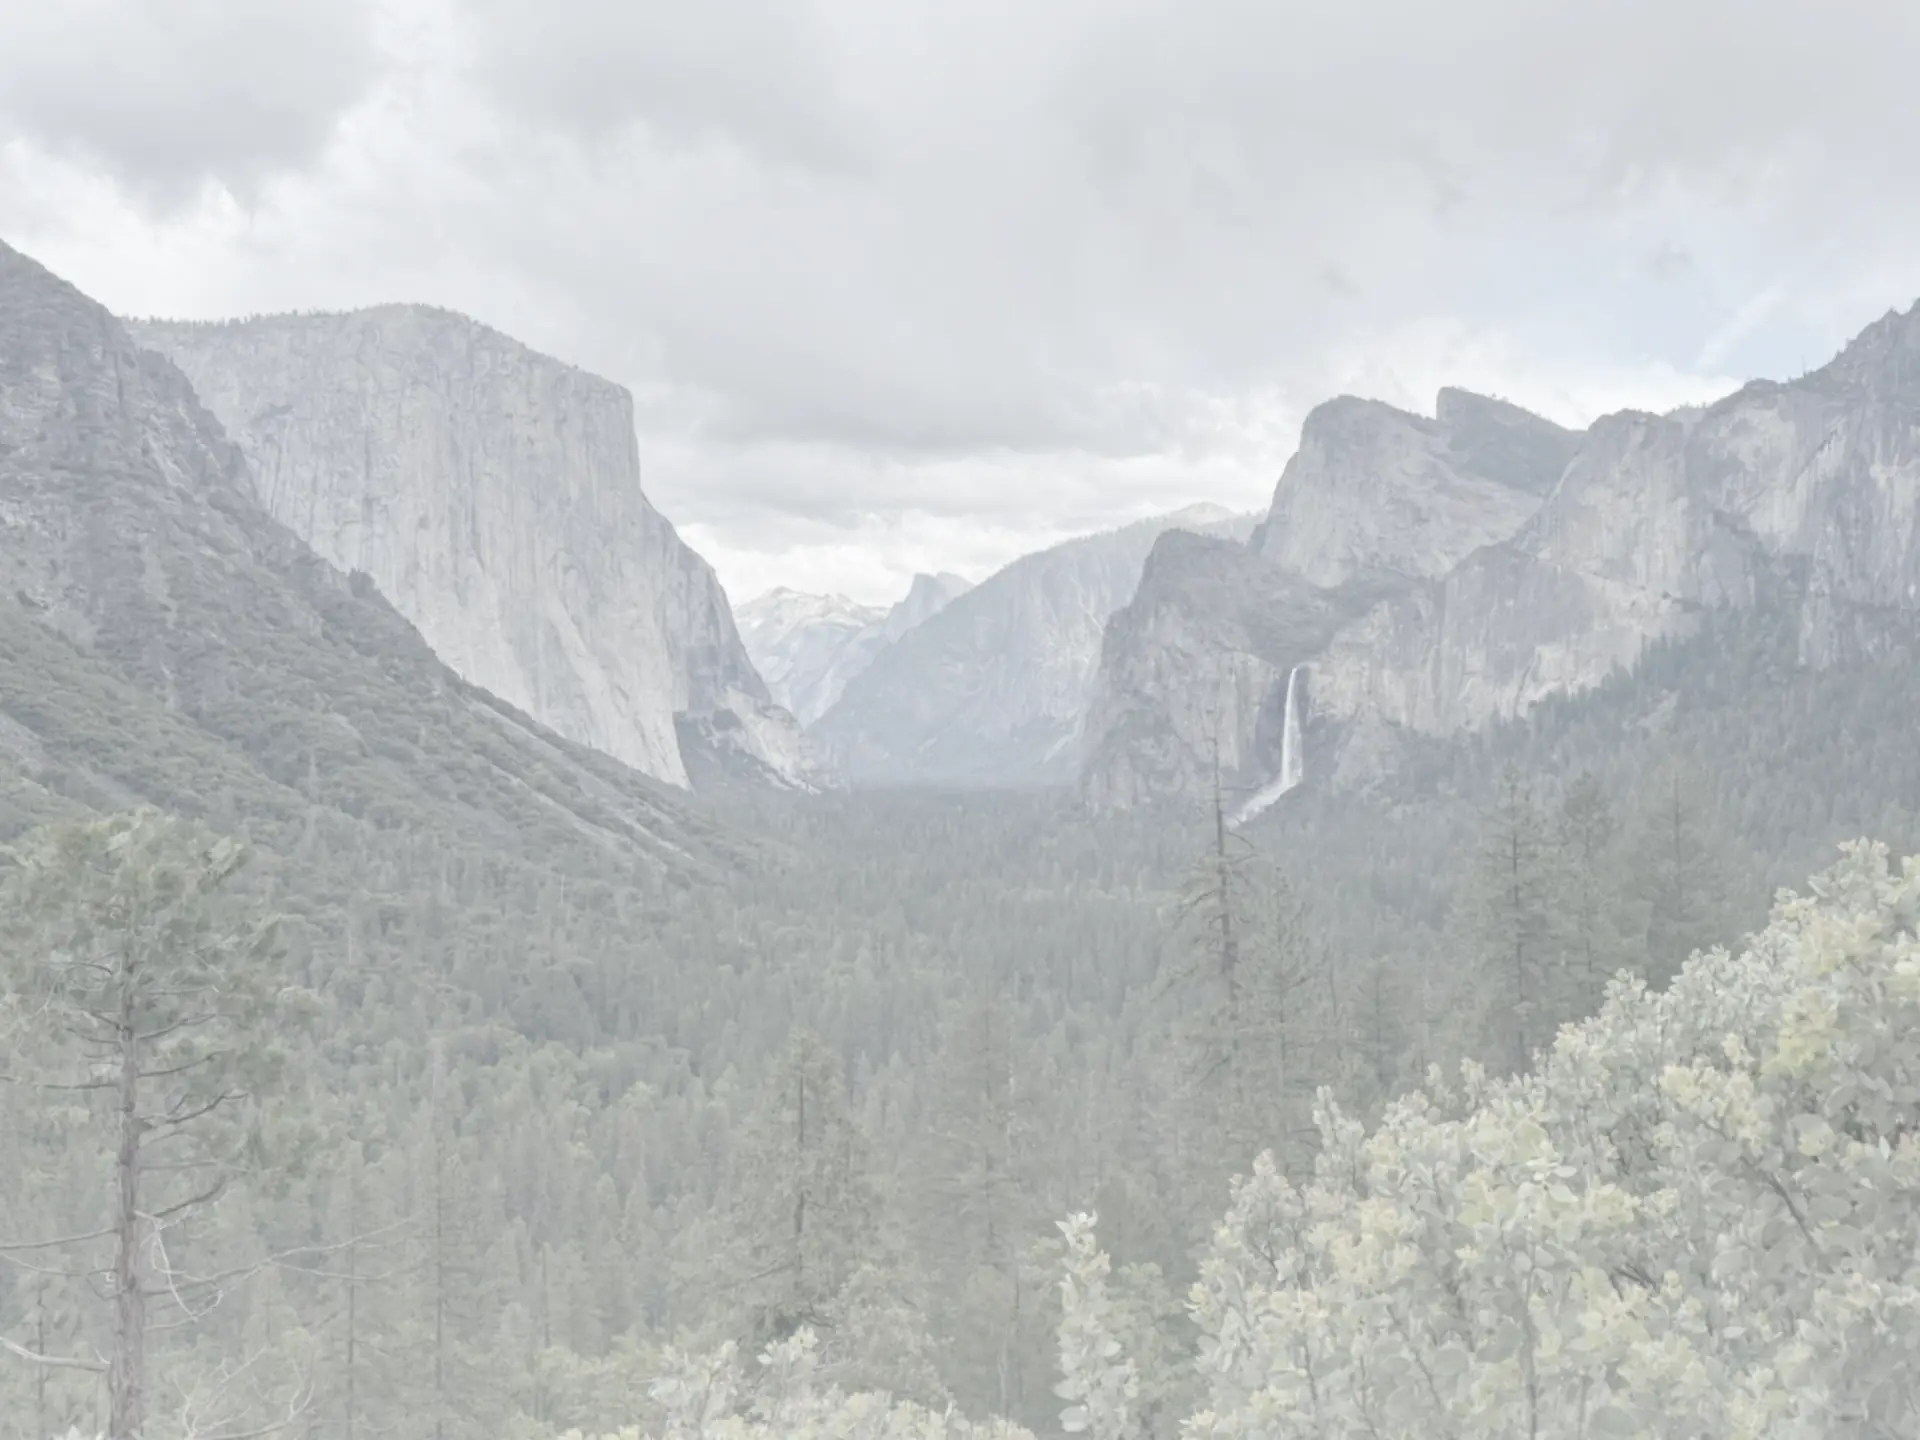
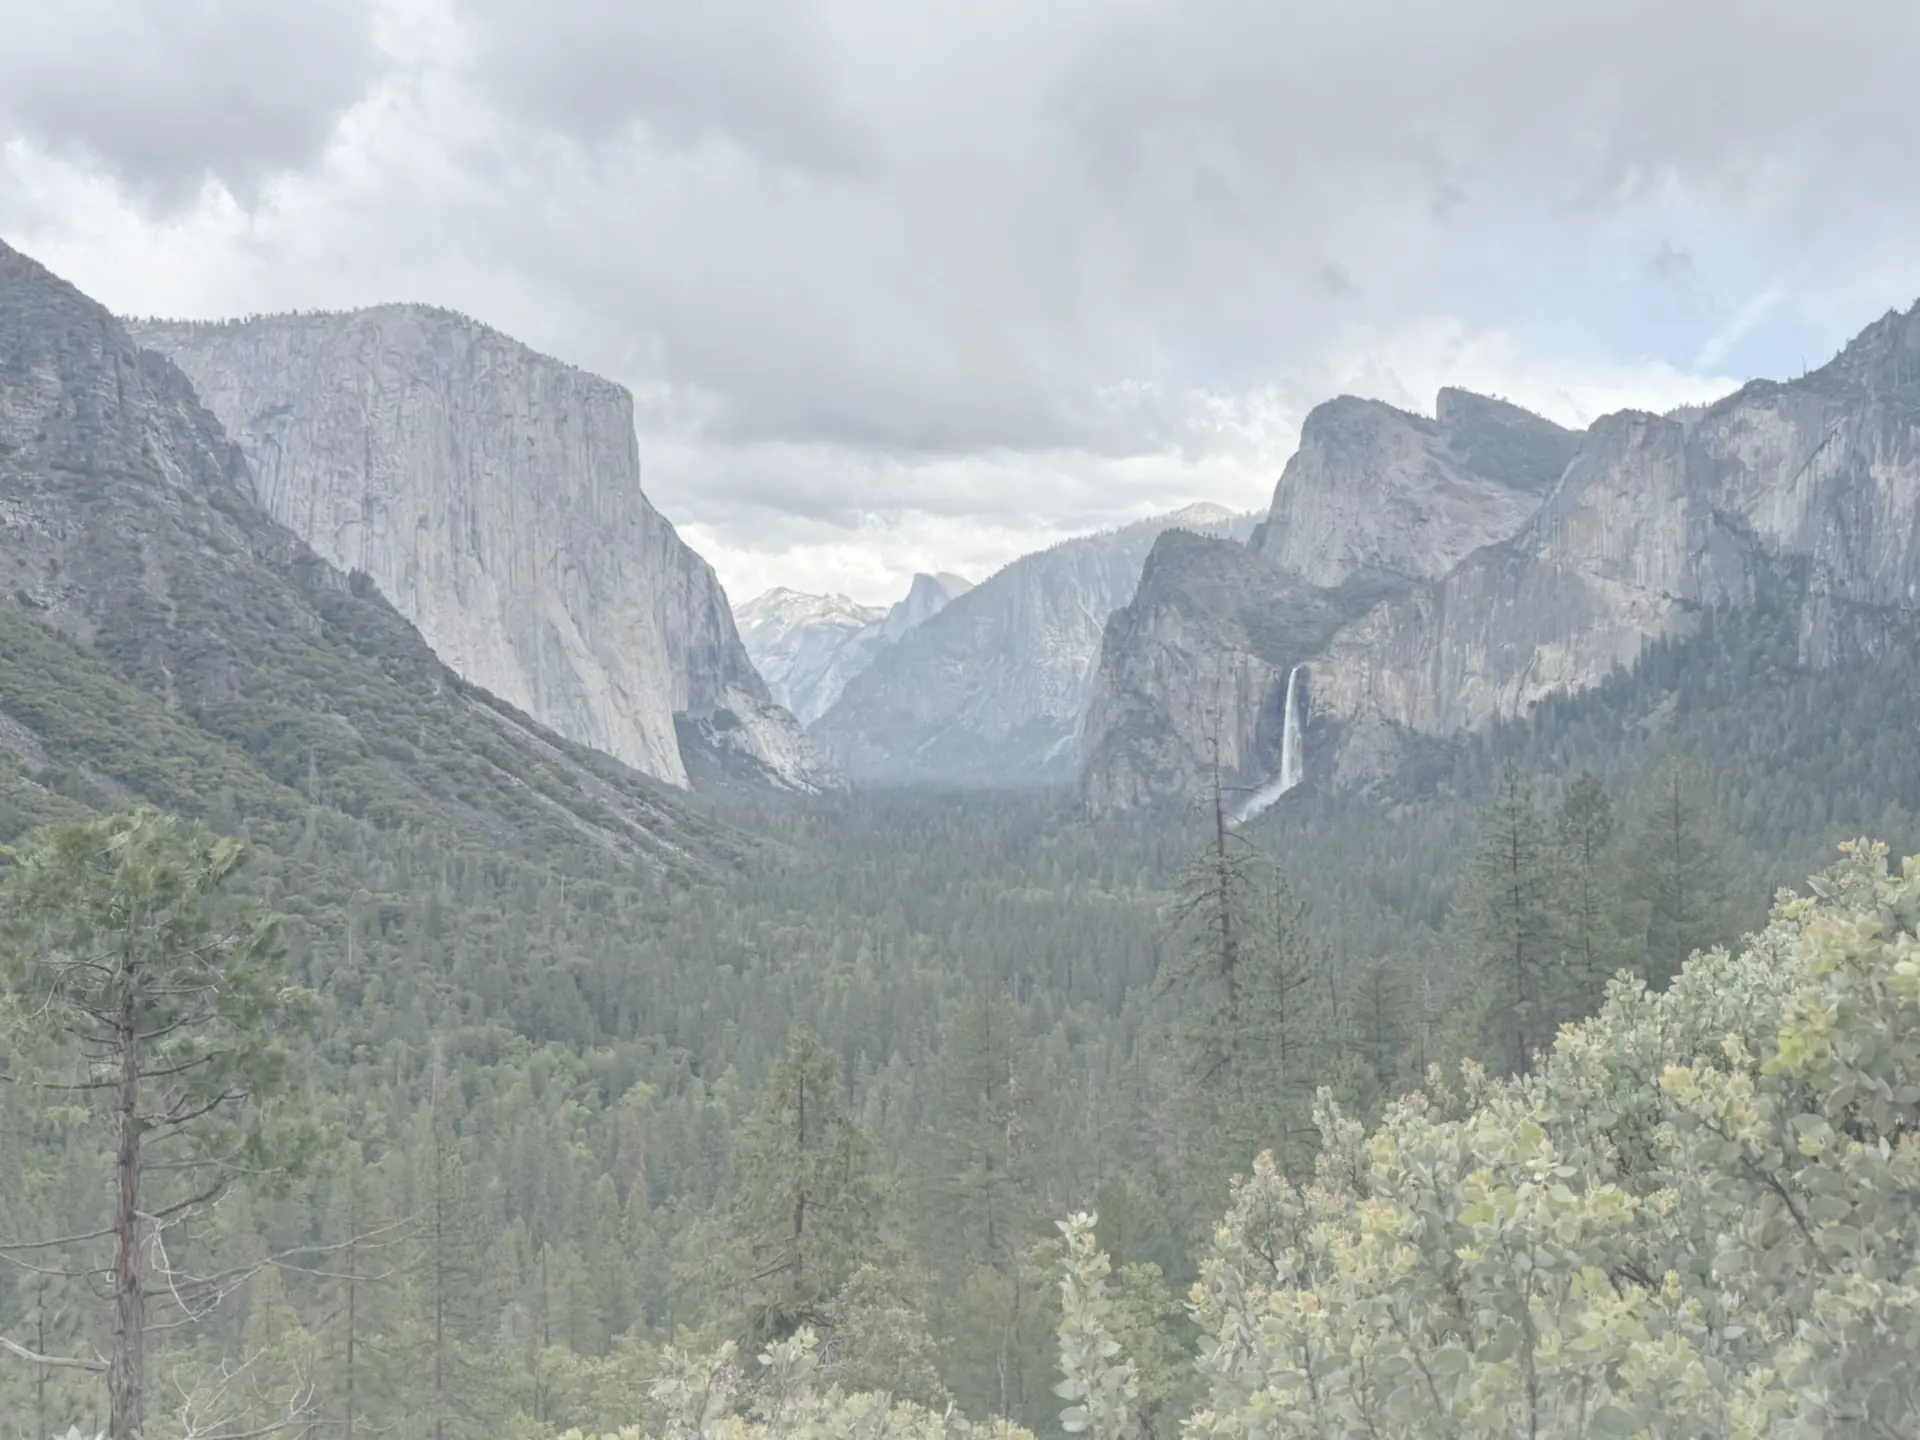
Take the homepage glass down to 25% and keep the text on a paper halo
After seeing site#2 live, the owner asked again for the photo to show
through more. The tiles now carry 25% paper instead of 50%, and the photo
file keeps its full colour (only the dark forest is still lifted so no text
ever sits on it), so the valley reads through the whole sheet instead of
hinting at itself.

What keeps the text readable with so little paper: a paper-coloured text
halo (3px and 1px, paper at 90%) on everything inside the paper tiles and
the contact strip, which puts every glyph on light ground whatever is
behind the tile; and darker homepage text (body #3a3f49, muted #4b5260; the
paper pages are unchanged). The measurement moved with it: the new
tools/contrast-floor.mjs samples the darkest 5% of what sits under the
glyph pixels themselves, halo included, instead of the whole text box, at
1440x900 and 1280x720. As merged: headings 12:1, body 6.9:1, small grey
5.1:1 (4.9 at 1280x720), accent links 5.2:1, all above the 4.5 standard
(site#2 had 4.0 for the small grey without a halo).

Checked at 1280x720, 1366x768, 1440x900, 1920x1080 and 2560x1440 (one
screen, no console errors), every zoom step (no horizontal scroll) and
390px (no horizontal scroll). CLAUDE.md records the new recipe, the tool
and the site#3 ledger entry; the site#2 recipe stays in git at 00fe32a.

Claude-Session: https://claude.ai/code/session_01BtnzSXW1FK9fTyGXYcY59K

diff --git a/index.html b/index.html
@@ -15,11 +15,11 @@
     --cream: #dfe1e6;
     --accent: #31548e;
     --accent-light: #6d8cbf;
-    --muted: #565d6a;        /* one notch darker than the paper pages: small text sits on frosted tiles here */
+    --muted: #4b5260;        /* darker than the paper pages' #737a86: small text sits on glass here */
     --rule: #c6cad2;
     --card-bg: #fafbfc;
     --shadow: 0 6px 40px rgba(22,24,30,.10);
-    --body: #454a54;
+    --body: #3a3f49;         /* the paper pages keep #454a54 */
     --ink-hover: #1f2430;
     --inv-muted: #8b93a2;
     --inv-body: #aeb5c2;
@@ -60,15 +60,18 @@
   .band-main > .about { flex-grow: 1.25; }
   .band-papers > * { flex: 1 1 26rem; min-width: 0; }
 
-  /* Frosted tiles: half-opaque paper over the blurred photo; the 1px shadow draws the hairline grid
-   that the sheet's rule-coloured ground used to provide. */
+  /* Glass tiles: a quarter of paper over the blurred photo, and a paper-coloured halo under every
+   glyph so the text always sits on light ground; the 1px shadow draws the hairline grid that the
+   sheet's rule-coloured ground used to provide. */
   .tile {
-    background: rgba(243,244,246,.5);
-    -webkit-backdrop-filter: blur(16px) saturate(.85); backdrop-filter: blur(16px) saturate(.85);
+    background: rgba(243,244,246,.25);
+    -webkit-backdrop-filter: blur(16px) saturate(.9); backdrop-filter: blur(16px) saturate(.9);
     box-shadow: 0 0 0 1px var(--rule);
     padding: 1rem 1.2rem; position: relative; transition: background .25s;
   }
-  .tile:hover { background: rgba(250,251,252,.62); }
+  .tile:hover { background: rgba(250,251,252,.4); }
+  .tile:not(.quidence), .foot { text-shadow: 0 0 3px rgba(243,244,246,.9), 0 0 1px rgba(243,244,246,.9); }
+  .glyph { text-shadow: none; }
   @supports not ((backdrop-filter: blur(1px)) or (-webkit-backdrop-filter: blur(1px))) {
     .tile { background: rgba(243,244,246,.9); }
   }

diff --git a/CLAUDE.md b/CLAUDE.md
@@ -209,22 +209,25 @@ wording.
   laptop-height screens (861px+ wide, 940px or less tall) hide the About tile's closing
   aside (`.about p.dim`) so the homepage still fits one screen from 1280×800 to
   2560×1440; the 820px compact mode is otherwise unchanged.
-  Photo ground on the homepage only (since site#2, 2026-10-09; owner's choice after three
-  mockups: masthead band, light wash, frosted tiles): `assets/yosemite-light.webp` (the
-  owner's own Yosemite Tunnel View photo, IMG_6641, 1920×1440, about 85 KB) sits in a fixed
-  `body::before` layer (not `background-attachment: fixed`, which iOS Safari ignores). The
-  tiles are frosted glass: paper at 50% over `backdrop-filter: blur(16px)`, hairlines drawn
-  by a 1px box-shadow because the sheet ground is now transparent; the contact strip is at
-  86%; the Quidence tile stays opaque. The image file carries the readability work:
-  desaturated to 70%, shadows lifted (gamma 0.55), blended 25% toward paper, plus an extra
-  blend toward paper rising to 40% over the lower 55% of the frame so the dark forest never
-  sits behind text, then a 1px blur. Homepage `--muted` is #565d6a (the paper pages keep
-  #737a86) so the smallest grey text keeps a 4.0:1 floor against the darkest spot behind
-  it, the value the old grey had on plain paper; body text stays above 5.4, headings above
-  10. Fallbacks: tiles go to 90% without backdrop-filter support and to 94% under
-  `prefers-reduced-transparency`. Rule for any change here: measure the darkest 5% of the
-  backdrop under each text block (headless Chromium + PIL) and keep that floor; with this
-  photo 50% is the lowest tile opacity that passes.
+  Photo ground on the homepage only (site#2, 2026-10-09, at 50% tiles; site#3 the same day
+  took it to 25% after the owner asked twice for more of the photo): `assets/yosemite-light.webp`
+  (the owner's own Yosemite Tunnel View photo, IMG_6641, 1920×1440, about 135 KB) sits in a
+  fixed `body::before` layer (not `background-attachment: fixed`, which iOS Safari ignores).
+  The tiles are glass: paper at 25% over `backdrop-filter: blur(16px)`, hairlines drawn by a
+  1px box-shadow because the sheet ground is transparent; the contact strip is at 86%; the
+  Quidence tile stays opaque. Three things keep the text readable on so little paper: a
+  paper-coloured text halo on everything inside the paper tiles and the contact strip
+  (`text-shadow` 3px + 1px, paper at 90%; the watermark glyphs are excluded), darker homepage
+  text (`--body` #3a3f49, `--muted` #4b5260; the paper pages keep #454a54 / #737a86), and the
+  image file itself: full colour, shadows lifted (gamma 0.65), blended 6% toward paper, plus an
+  extra blend toward paper rising to 36% over the lower 55% of the frame so the dark forest
+  never sits behind text, then a 0.8px blur. Fallbacks: tiles go to 90% without
+  backdrop-filter support and to 94% under `prefers-reduced-transparency`. Rule for any change
+  here: run `node tools/contrast-floor.mjs` (headless Chromium; it samples the darkest 5% of
+  what sits under the glyph pixels of every text block, halo included) and keep every text
+  colour at 4.5:1 or better; as merged, headings 12, body 6.9, small grey 5.1 (4.9 at
+  1280×720). The site#2
+  recipe (50% tiles, no halo, gamma 0.55 / 25% wash) is in git at 00fe32a.
   `platform.html` is a short Quidence page in the portfolio chassis (kept so old links
   land somewhere); `local-llm.html` keeps the original warm-paper terracotta system.
   Fonts are shared across all systems; the section-numbering pattern continues.
@@ -266,7 +269,7 @@ The canonical reference is `<line>#<n>`, counted separately per project line:
 - `site#n` — the portfolio line from 2026-10-08 on (`index.html`, `acb.html`, `mdc.html`,
   `review.html` + `review/`, `platform.html`, `README.md`, `CLAUDE.md`); starts at `site#1`.
   Assigned: `site#1` = PR #21 (CNAME for stephenjia.com, 2026-10-09); `site#2` = homepage
-  photo ground (2026-10-09)
+  photo ground (2026-10-09); `site#3` = glass tiles at 25% with text halo (2026-10-09)
 - `llm#n` — the local-llm terminal line (`local-llm.html`)
 
 Every PR title carries its reference as a `[line#n]` prefix. Already assigned: PRs #1–#8
@@ -316,7 +319,7 @@ GitHub's. A new project line starts its own counter at 1.
   for a you@stephenjia.com forward; turning on the Cloudflare proxy (orange cloud) only
   with SSL/TLS mode "Full (strict)". Content inventory lives in the owner's Claude Doc
   "stephenjia.com 内容整理".
-- Homepage photo ground (site#2): the paper pages (`acb.html`, `mdc.html`, `review.html`,
+- Homepage photo ground (site#2, site#3): the paper pages (`acb.html`, `mdc.html`, `review.html`,
   `platform.html`) stay plain graphite-indigo on purpose; the owner asked for the homepage.
   If it is ever extended, reuse the recipe and the contrast floor recorded in §5.
 - Delta is retired on the site (2026-10-08, delta#19); its design record stays at commit
